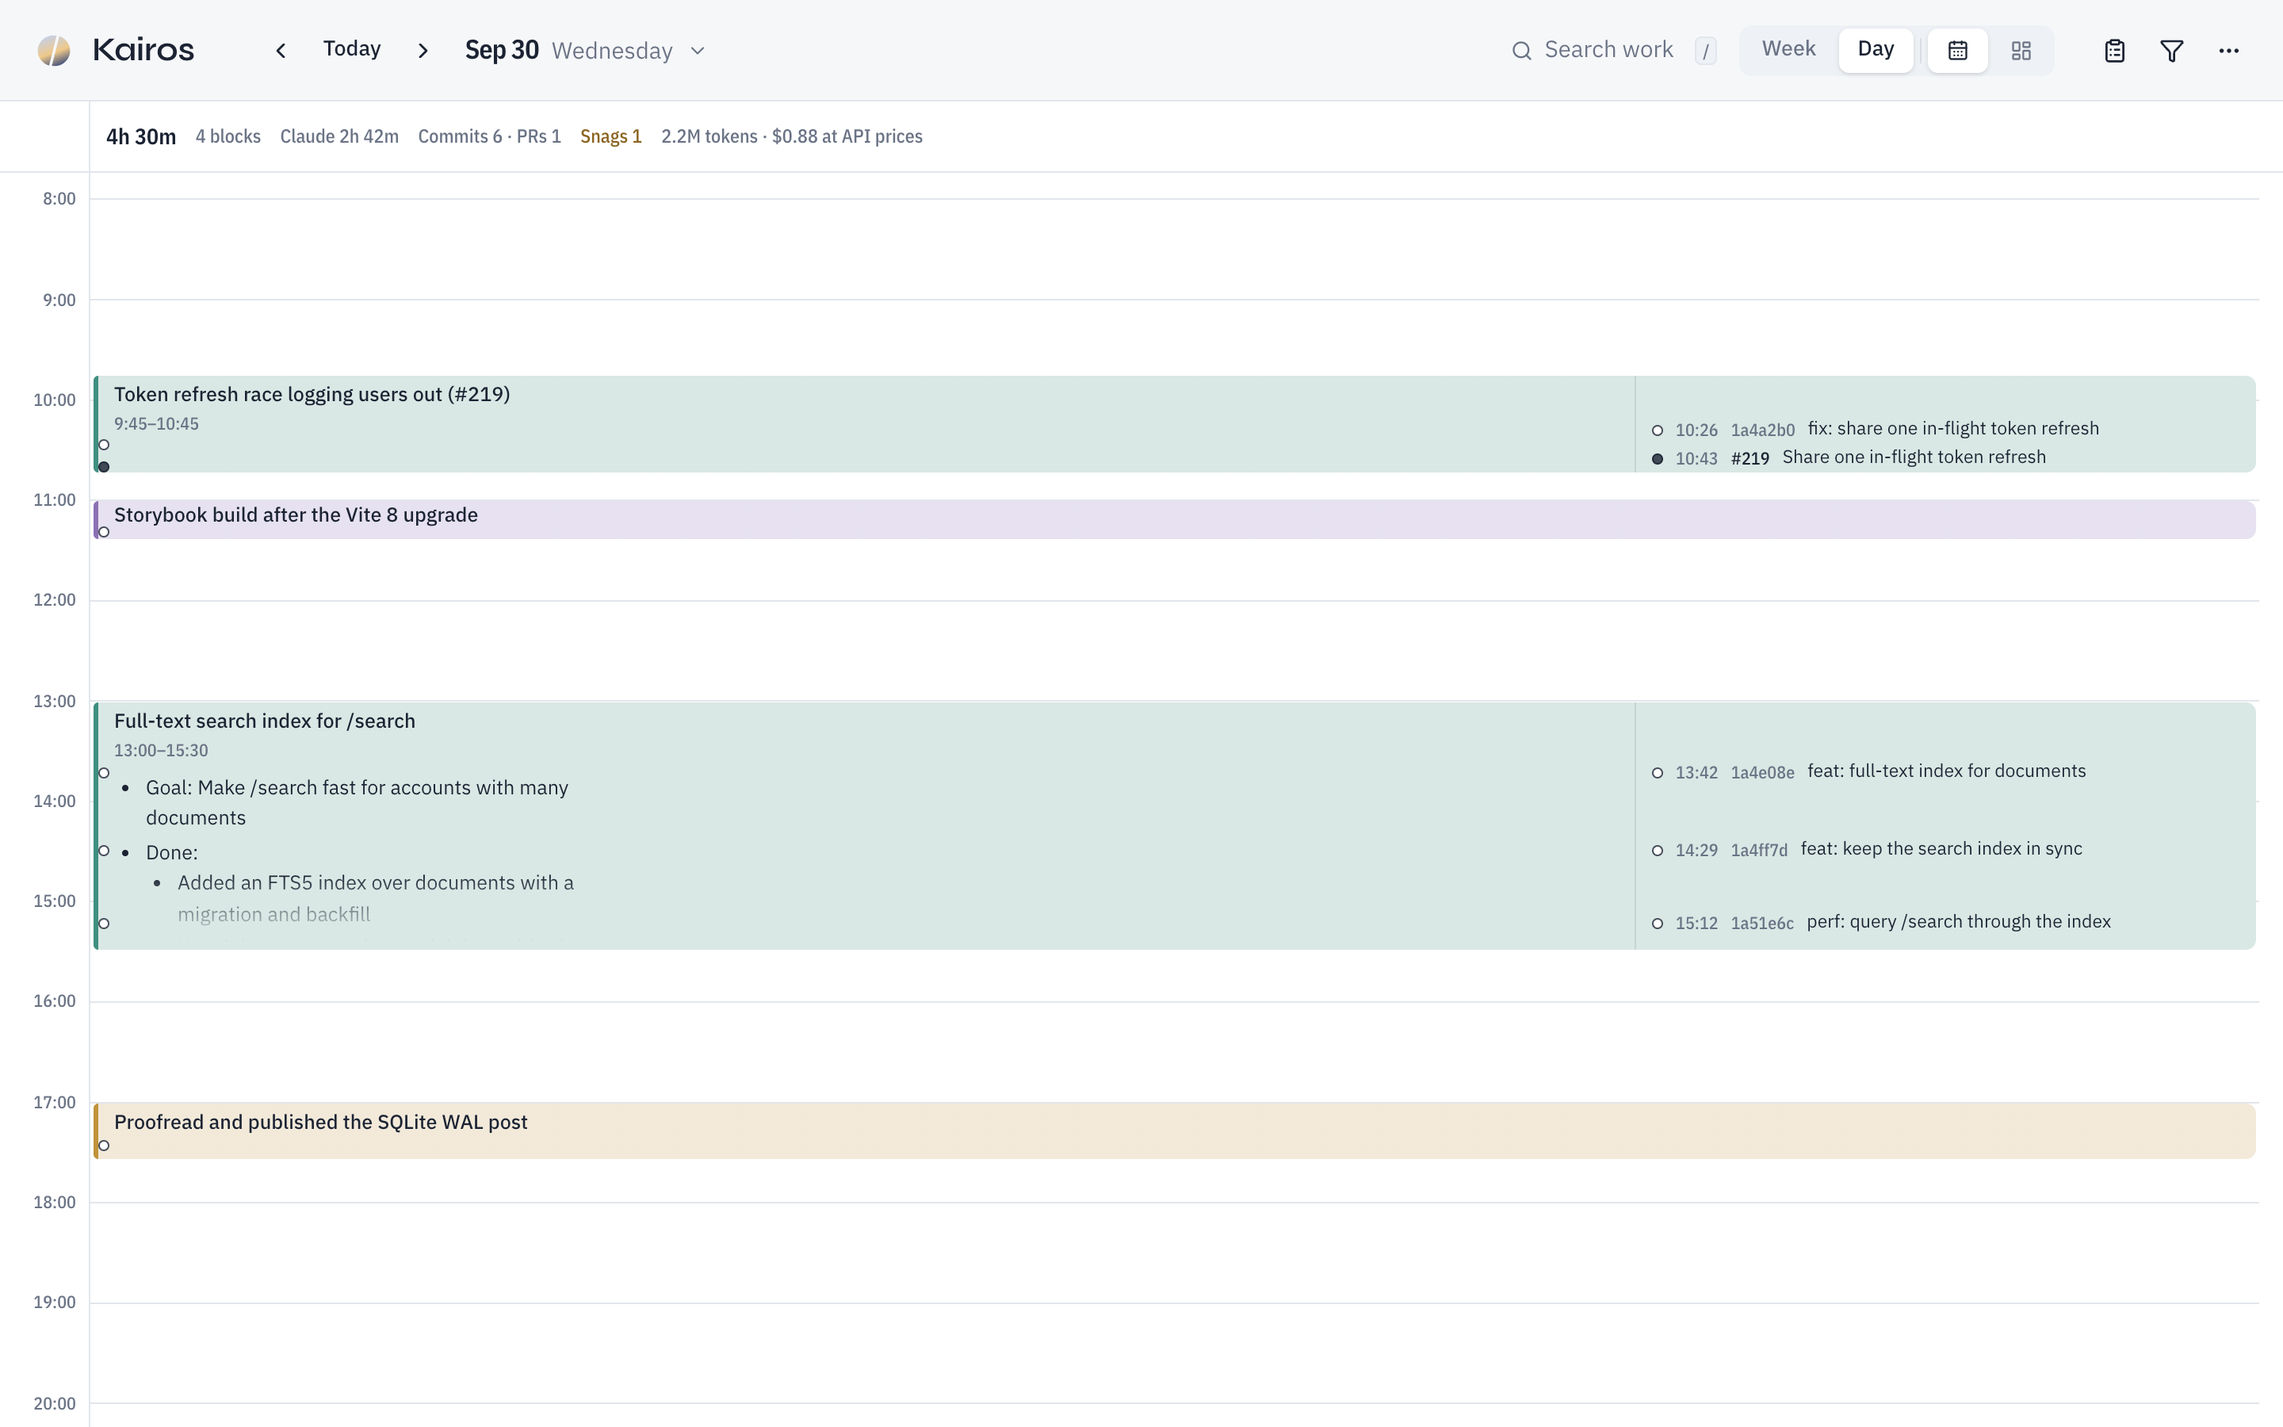
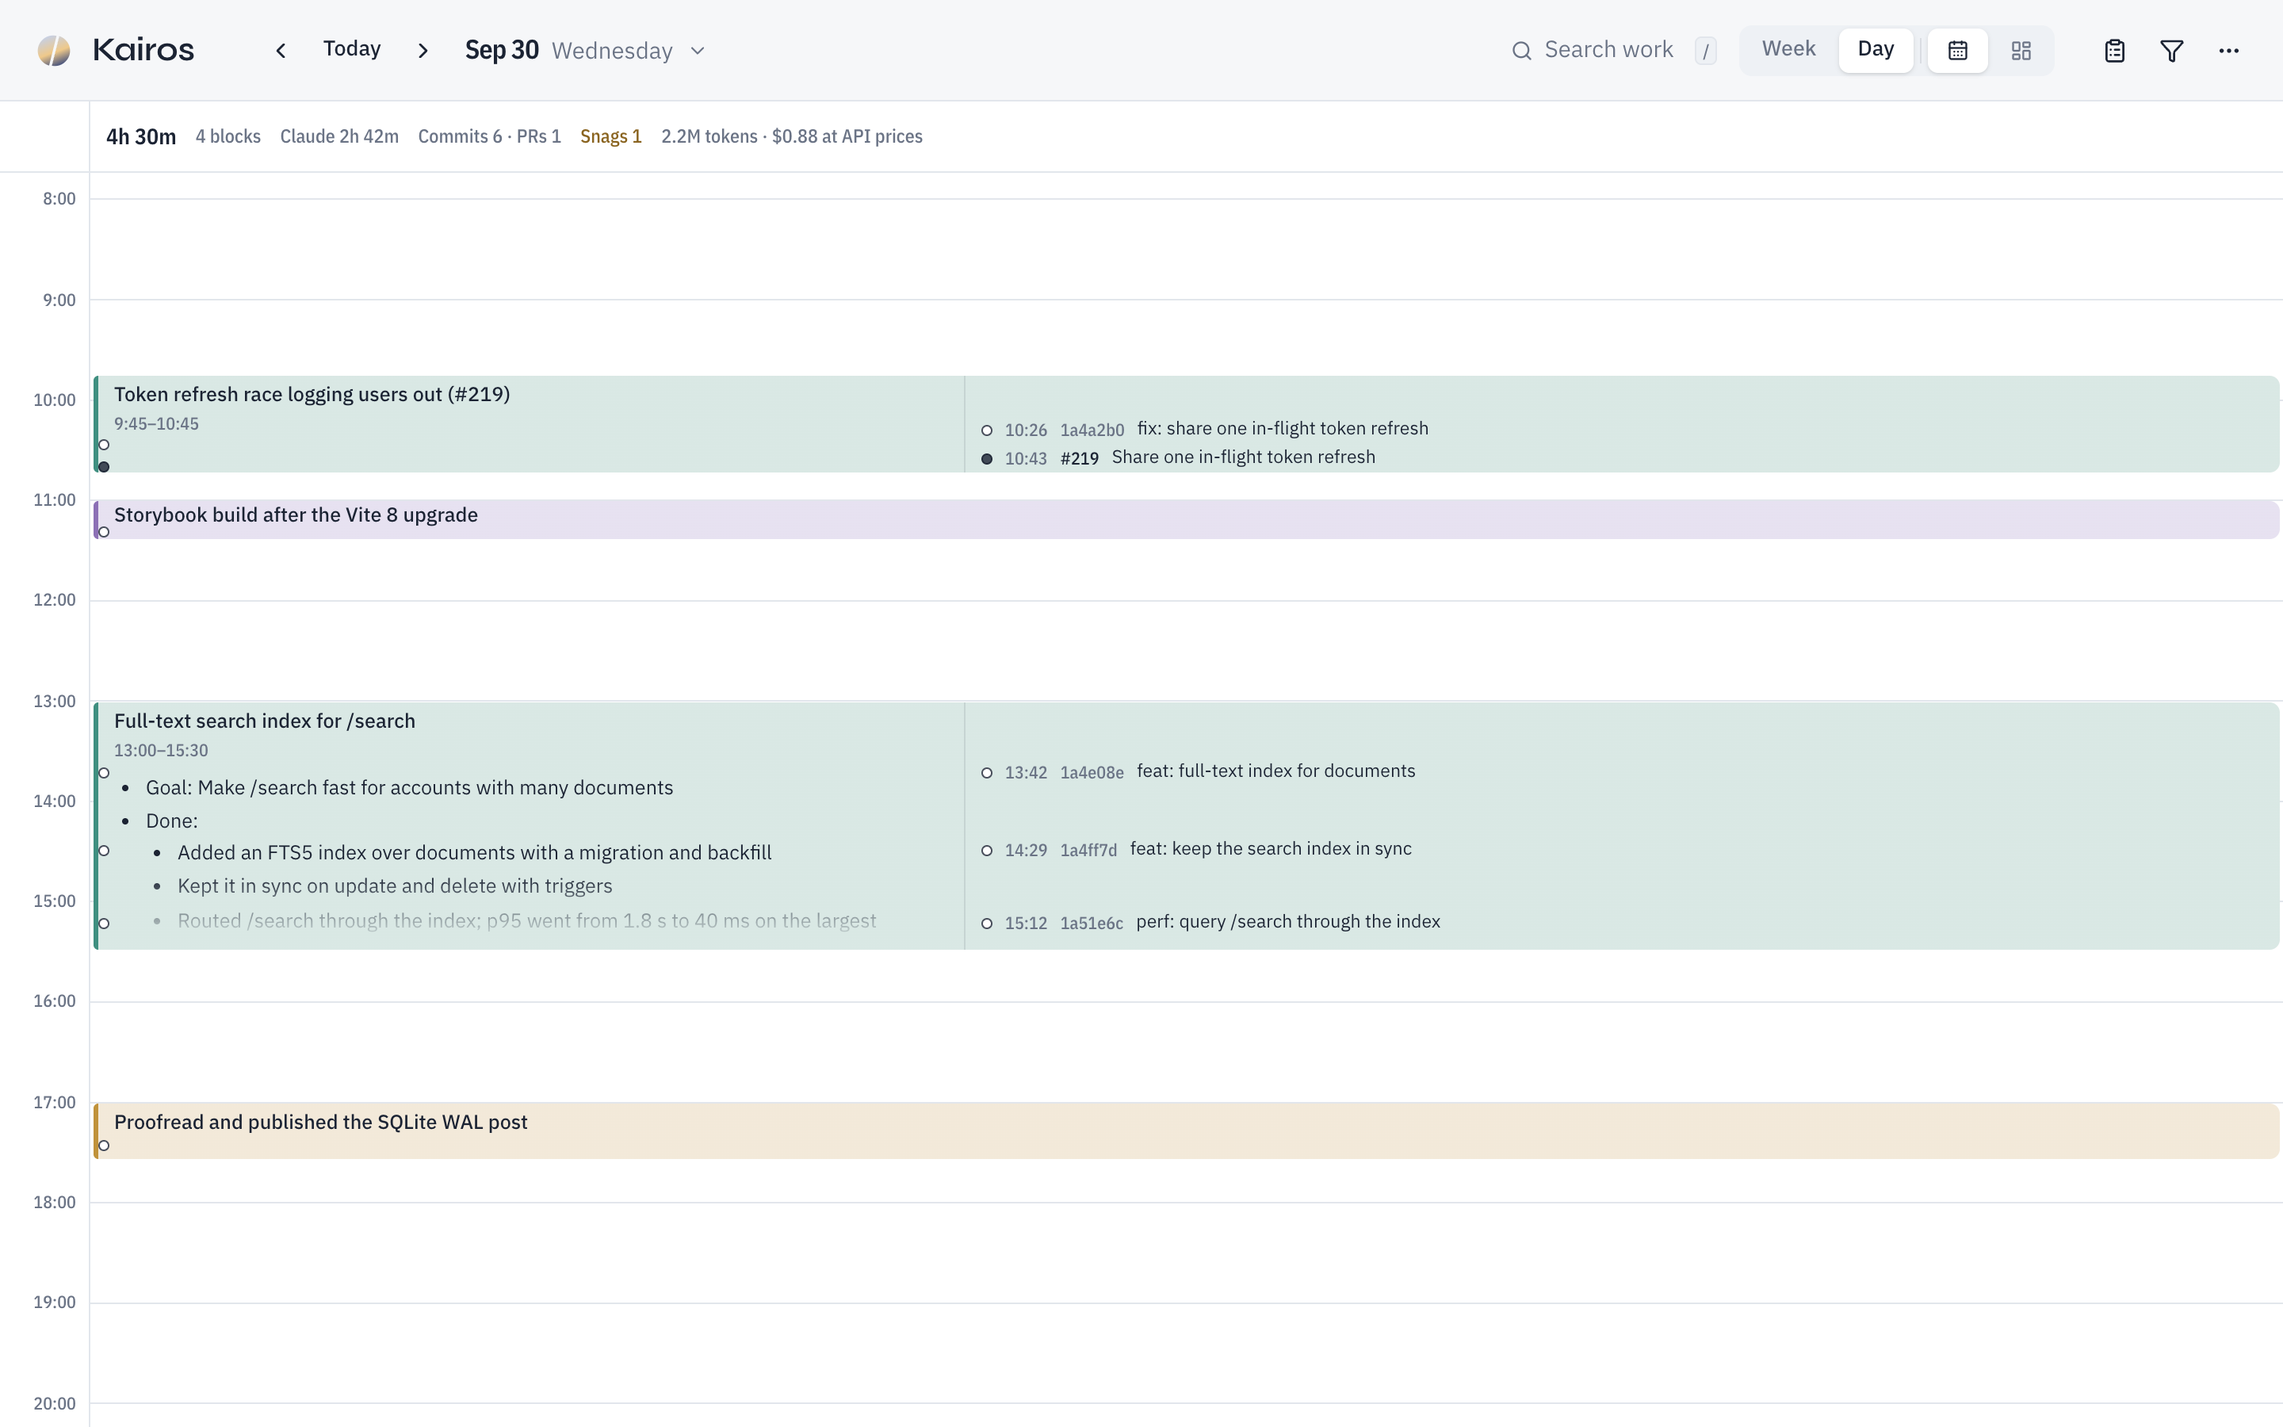
fix: address high-priority design review findings (#13)
- Week heading names its first and last day ("Sep 28 – Oct 4") instead of
  only the months, so the summary view says which week it shows (#5)
- Summary view's recap buttons use the drawer's vocabulary: Summarize /
  Summarizing… / Regenerate, in en and ja (#7)
- Day view puts the commits and PRs lane right after the block's text
  (32rem measure) instead of at the far edge of the window (#4)

diff --git a/src/web/src/i18n/messages/summary.ts b/src/web/src/i18n/messages/summary.ts
@@ -42,17 +42,17 @@ export const summaryMessages = defineMessages({
     overlap: (busy: string) =>
       `Time spent on several projects at once counts for each, so these add up to more than the ${busy} of working time`,
     done: "What you did",
-    recapWrite: "Explain this work",
-    recapAbout: "About this explanation",
-    recapWriteAll: "Explain every project",
-    recapRewrite: "Rewrite",
-    recapWriting: "Writing the explanation…",
-    recapStale: "More work came in after this was written",
-    recapFailed: (message: string) => `Couldn't write it: ${message}`,
-    recapFailedHint: (hint: string) => `Couldn't write the explanation. ${hint}`,
+    recapWrite: "Summarize this work",
+    recapAbout: "About this summary",
+    recapWriteAll: "Summarize every project",
+    recapRewrite: "Regenerate",
+    recapWriting: "Summarizing…",
+    recapStale: "Work continued after this summary",
+    recapFailed: (message: string) => `Couldn't summarize: ${message}`,
+    recapFailedHint: (hint: string) => `Couldn't summarize. ${hint}`,
     recapFailedDetail: (error: string) => `Details: ${error}`,
     recapNote:
-      "Written by Claude from this period's section summaries. Sections without a summary add only their headline",
+      "Summarized by Claude from this period's section summaries. Sections without a summary add only their headline",
     noTime: "—",
   },
   ja: {
@@ -77,17 +77,17 @@ export const summaryMessages = defineMessages({
     overlap: (busy: string) =>
       `並行して進めた時間はそれぞれのプロジェクトに数えるため、合計は作業時間（${busy}）より長くなります`,
     done: "やったこと",
-    recapWrite: "この作業を説明する",
-    recapAbout: "この説明について",
-    recapWriteAll: "すべてのプロジェクトを説明する",
-    recapRewrite: "書き直す",
-    recapWriting: "説明を書いています…",
-    recapStale: "書いた後に作業が増えています",
-    recapFailed: (message: string) => `説明を書けませんでした：${message}`,
-    recapFailedHint: (hint: string) => `説明を書けませんでした。${hint}`,
+    recapWrite: "この作業を要約する",
+    recapAbout: "この要約について",
+    recapWriteAll: "すべてのプロジェクトを要約する",
+    recapRewrite: "作り直す",
+    recapWriting: "要約を作成中…",
+    recapStale: "要約の後も作業が続いています",
+    recapFailed: (message: string) => `要約できませんでした: ${message}`,
+    recapFailedHint: (hint: string) => `要約できませんでした。${hint}`,
     recapFailedDetail: (error: string) => `詳細: ${error}`,
     recapNote:
-      "この期間のセクション要約をもとに Claude が書きました。要約のないセクションは見出しだけを使います",
+      "この期間のセクション要約をもとに Claude がまとめました。要約のないセクションは見出しだけを使います",
     noTime: "—",
   },
 });

diff --git a/src/web/src/components/calendar/Block.tsx b/src/web/src/components/calendar/Block.tsx
@@ -40,16 +40,22 @@ const SPOKEN_MOMENTS = 8;
 const LANE_ROW_PX = 18;
 /**
  * Width of that lane. The day view is wide enough that a block's text would otherwise run across
- * the whole screen; the right side holds the moments instead, and the text keeps a readable measure.
+ * the whole screen; the lane holds the moments instead, and the text keeps a readable measure.
  */
 const LANE_WIDTH = "min(38%, 24rem)";
 /**
- * Room the heading, time range and body leave for the lane, matching `LANE_WIDTH` plus a gap.
- * Both this and the lane switch on the block's own width (a container query): side-by-side or
- * stacked blocks on a busy day are too narrow for it, and fall back to the tooltip.
- * Spelled out so Tailwind can pick up the class names.
+ * Where the lane starts: right after the text's measure (`LANE_ROOM`), so on a wide screen the
+ * summary and its commits read as one block instead of sitting at opposite edges of the window.
+ * On a narrower block it falls back to the right edge.
  */
-const LANE_ROOM = "@min-[36rem]:pr-[calc(min(38%,24rem)+0.75rem)]";
+const LANE_LEFT = "min(calc(0.625rem + 32rem + 1.5rem), calc(100% - min(38%, 24rem) - 0.5rem))";
+/**
+ * Width the heading, time range and body keep beside the lane: a readable measure, or less when
+ * the lane (`LANE_WIDTH` plus a gap) needs the room. Both this and the lane switch on the block's
+ * own width (a container query): side-by-side or stacked blocks on a busy day are too narrow for
+ * it, and fall back to the tooltip. Spelled out so Tailwind can pick up the class names.
+ */
+const LANE_ROOM = "@min-[36rem]:max-w-[min(32rem,calc(100%-min(38%,24rem)-0.75rem))]";
 
 /** How a block reads, apart from its position. */
 interface BlockState {
@@ -345,15 +351,15 @@ function MomentTicks({ moments, filledPx }: { moments: Moment[]; filledPx: numbe
 }
 
 /**
- * The day view's lane on the right of a block, labeling each commit and PR at the height it was
+ * The day view's lane beside a block's text, labeling each commit and PR at the height it was
  * made. The drawer lists the same outcomes, so this is visual only.
  */
 function MomentLane({ rows, heightPx }: { rows: MomentRow[]; heightPx: number }) {
   return (
     // Only as tall as the part no block is stacked over, so it never shows through between them
     <div
-      className="pointer-events-none absolute top-0 right-2 @max-[36rem]:hidden border-foreground/10 border-l"
-      style={{ width: LANE_WIDTH, height: heightPx }}
+      className="pointer-events-none absolute top-0 @max-[36rem]:hidden border-foreground/10 border-l"
+      style={{ left: LANE_LEFT, width: LANE_WIDTH, height: heightPx }}
       aria-hidden
     >
       {rows.map((row) => (

diff --git a/src/web/src/i18n/messages/dates.ts b/src/web/src/i18n/messages/dates.ts
@@ -22,9 +22,11 @@ export const dateMessages = defineMessages({
     weekdaysLong: ["Sunday", "Monday", "Tuesday", "Wednesday", "Thursday", "Friday", "Saturday"],
     month: (month: number) => MONTHS_EN[month] ?? "",
     monthShort: (month: number) => (MONTHS_EN[month] ?? "").slice(0, 3),
-    /** Range of months in the week heading: "Sep – Oct". */
-    monthRange: (a: number, b: number) =>
-      `${(MONTHS_EN[a] ?? "").slice(0, 3)} – ${(MONTHS_EN[b] ?? "").slice(0, 3)}`,
+    /** Week heading: "Oct 4 – 10" / "Sep 27 – Oct 3". The month repeats only when it changes. */
+    weekRange: (fromMonth: number, fromDay: number, toMonth: number, toDay: number) =>
+      `${(MONTHS_EN[fromMonth] ?? "").slice(0, 3)} ${fromDay} – ${
+        toMonth === fromMonth ? "" : `${(MONTHS_EN[toMonth] ?? "").slice(0, 3)} `
+      }${toDay}`,
     /** Day heading: "Oct 5". */
     monthDay: (month: number, day: number) => `${(MONTHS_EN[month] ?? "").slice(0, 3)} ${day}`,
     /** Short date: "Mon, Oct 5" / "Mon, Oct 5, 2025". */
@@ -41,7 +43,8 @@ export const dateMessages = defineMessages({
     weekdaysLong: ["日曜日", "月曜日", "火曜日", "水曜日", "木曜日", "金曜日", "土曜日"],
     month: (month: number) => `${month + 1}月`,
     monthShort: (month: number) => `${month + 1}月`,
-    monthRange: (a: number, b: number) => `${a + 1}月 – ${b + 1}月`,
+    weekRange: (fromMonth: number, fromDay: number, toMonth: number, toDay: number) =>
+      `${fromMonth + 1}月${fromDay}日 – ${toMonth === fromMonth ? "" : `${toMonth + 1}月`}${toDay}日`,
     monthDay: (month: number, day: number) => `${month + 1}月${day}日`,
     dateLabel: (weekday: string, month: number, day: number, year: number | null) =>
       `${year === null ? "" : `${year}/`}${month + 1}/${day} ${weekday}`,

diff --git a/tests/web/layout.test.ts b/tests/web/layout.test.ts
@@ -213,14 +213,14 @@ describe("dates", () => {
     expect(rangeOf("week", sunday).days).toHaveLength(7);
   });
 
-  test("the period heading leads with the month and adds the year when it isn't the current one", () => {
+  test("the period heading names the period and adds the year when it isn't the current one", () => {
     expect(rangeTitle("week", DAY0, DAY0)).toEqual({
-      title: "October",
+      title: "Oct 5 – 11",
       sub: null,
       year: null,
       week: "W41",
     });
-    expect(rangeTitle("week", new Date(2026, 8, 30).getTime(), DAY0).title).toBe("Sep – Oct");
+    expect(rangeTitle("week", new Date(2026, 8, 30).getTime(), DAY0).title).toBe("Sep 28 – Oct 4");
     expect(rangeTitle("week", DAY0, new Date(2027, 0, 1).getTime()).year).toBe("2026");
     expect(rangeTitle("week", new Date(2026, 11, 30).getTime(), DAY0).year).toBe("2026 – 2027");
     expect(rangeTitle("day", DAY0, DAY0)).toEqual({
@@ -274,8 +274,10 @@ describe("dates", () => {
 
     test("headings, dates, and durations use Japanese notation", () => {
       setLocale("ja");
-      expect(rangeTitle("week", DAY0, DAY0).title).toBe("10月");
-      expect(rangeTitle("week", new Date(2026, 8, 30).getTime(), DAY0).title).toBe("9月 – 10月");
+      expect(rangeTitle("week", DAY0, DAY0).title).toBe("10月5日 – 11日");
+      expect(rangeTitle("week", new Date(2026, 8, 30).getTime(), DAY0).title).toBe(
+        "9月28日 – 10月4日",
+      );
       expect(rangeTitle("day", DAY0, DAY0)).toMatchObject({ title: "10月5日", sub: "月曜日" });
       expect(dateLabel(DAY0, DAY0)).toBe("10/5 月");
       expect(dateLabel(new Date(2025, 9, 5).getTime(), DAY0)).toBe("2025/10/5 日");

diff --git a/src/web/src/lib/dates.ts b/src/web/src/lib/dates.ts
@@ -77,10 +77,11 @@ export function isoWeek(t: number): number {
 }
 
 /**
- * Heading for the period. Day numbers already appear on the calendar columns, so the month leads.
+ * Heading for the period. A week names its first and last day: the summary view has no day columns
+ * to say which week it is, and the heading reads the same in both layouts.
  * The year is omitted for the current year (as in `dateLabel`). The week number is not part of the
  * title; the date picker and tooltip show it.
- * Week: { title: "Sep – Oct", year: null, week: "W40" }, day: { title: "Oct 5", sub: "Monday", year: null }
+ * Week: { title: "Sep 28 – Oct 4", year: null, week: "W40" }, day: { title: "Oct 5", sub: "Monday", year: null }
  */
 export function rangeTitle(
   view: View,
@@ -105,11 +106,12 @@ export function rangeTitle(
       year,
       week: null,
     };
-  const months =
-    b.getMonth() === a.getMonth()
-      ? m.month(a.getMonth())
-      : m.monthRange(a.getMonth(), b.getMonth());
-  return { title: months, sub: null, year, week: `W${isoWeek(from)}` };
+  return {
+    title: m.weekRange(a.getMonth(), a.getDate(), b.getMonth(), b.getDate()),
+    sub: null,
+    year,
+    week: `W${isoWeek(from)}`,
+  };
 }
 
 /** Midnight on the first of the month. */

diff --git a/src/web/src/components/summary/RecapBlock.tsx b/src/web/src/components/summary/RecapBlock.tsx
@@ -7,7 +7,7 @@ import { failureHint } from "../drawer/failureHint.ts";
 import { Hint } from "../Hint.tsx";
 import { Markdown } from "../Markdown.tsx";
 
-/** The LLM's explanation of the project's work in the period, or a button to write one. */
+/** The LLM's summary of the project's work in the period, or a button to make one. */
 export function RecapBlock({
   recap: r,
   baseUrl,

diff --git a/DESIGN.md b/DESIGN.md
@@ -298,11 +298,13 @@ Stacked work blocks get a 1px `surface`-colored outline, not a shadow, to separa
   of the minute it was made; a PR is the same node filled with `ink`. Nodes stay a radius inside the
   block, which clips at its border. Moments less than 10px apart (a 7px node plus a 3px gap) merge
   into one pill spanning them, 3px longer per extra moment and filled when it holds a PR, so a burst
-  of commits never reads as a single node. The day view adds a lane on the right of each block
+  of commits never reads as a single node. The day view adds a lane beside each block's text
   (`min(38%, 24rem)`, a faint rule on its left; only on blocks at least 36rem wide with room for
   two labels, so side-by-side and stacked blocks on a busy day fall back to the tooltip) labeling each node with its time, short SHA or PR
   number and title; labels push apart to avoid overlapping and end in "+n more" when they run out
-  of room. The block's text keeps a 72ch measure beside the lane. The block's tooltip lists the
+  of room. The block's text keeps a 32rem measure and the lane starts right after it, so on a wide
+  screen the summary and its commits stay together instead of sitting at opposite edges (a
+  narrower block puts the lane at its right edge). The block's tooltip lists the
   same (up to six), which is where the week view shows their titles; screen readers get them
   (up to eight) through the button's description, since the nodes are drawn for the eye only
 - **The node is the app's word for commit and PR.** Wherever a count or list of them appears (day

diff --git a/ARCHITECTURE.md b/ARCHITECTURE.md
@@ -141,7 +141,7 @@ sequenceDiagram
 
 A recap explains what was done on one project during a shown period (the summary view's week or day) in a few sentences and bullets, for a weekly report or for looking back.
 
-- Written only on request (the summary view's "Explain this work" button, `POST /api/recaps`), never automatically: a week has as many recaps as projects
+- Written only on request (the summary view's "Summarize this work" button, `POST /api/recaps`), never automatically: a week has as many recaps as projects
 - The input is the period's section headlines and summary bodies (sections starting in the period, from sessions with prompts), plus the PR and commit titles made during them, up to 40k characters (bodies are dropped first). Raw conversation is not read again
 - Stored in `recaps` (key: project + period start and end) with a hash of the input. When the input changes (more work, a new section summary), the API marks the recap `stale`, and it can be rewritten
 - Shares the Summarizer's queue, so only one `claude` runs at a time: requested section summaries first, then recaps, then automatic section summaries. A failure is shown in the view until the next request (no automatic retry)
